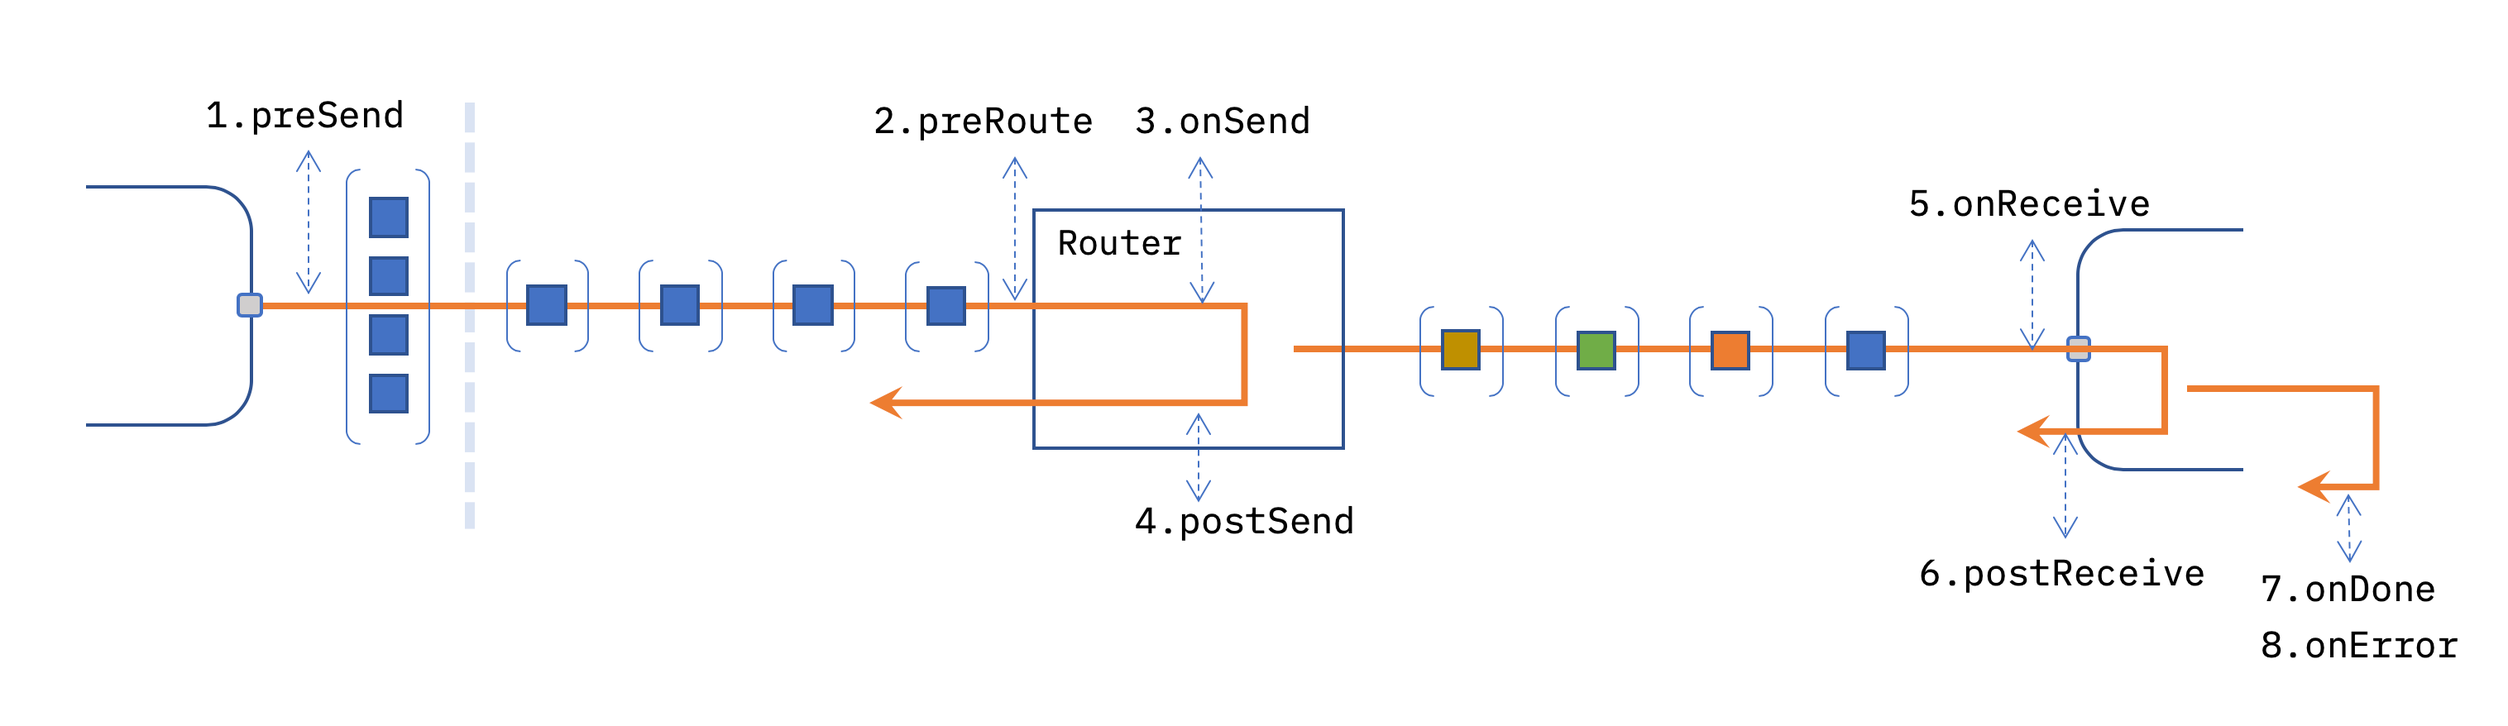
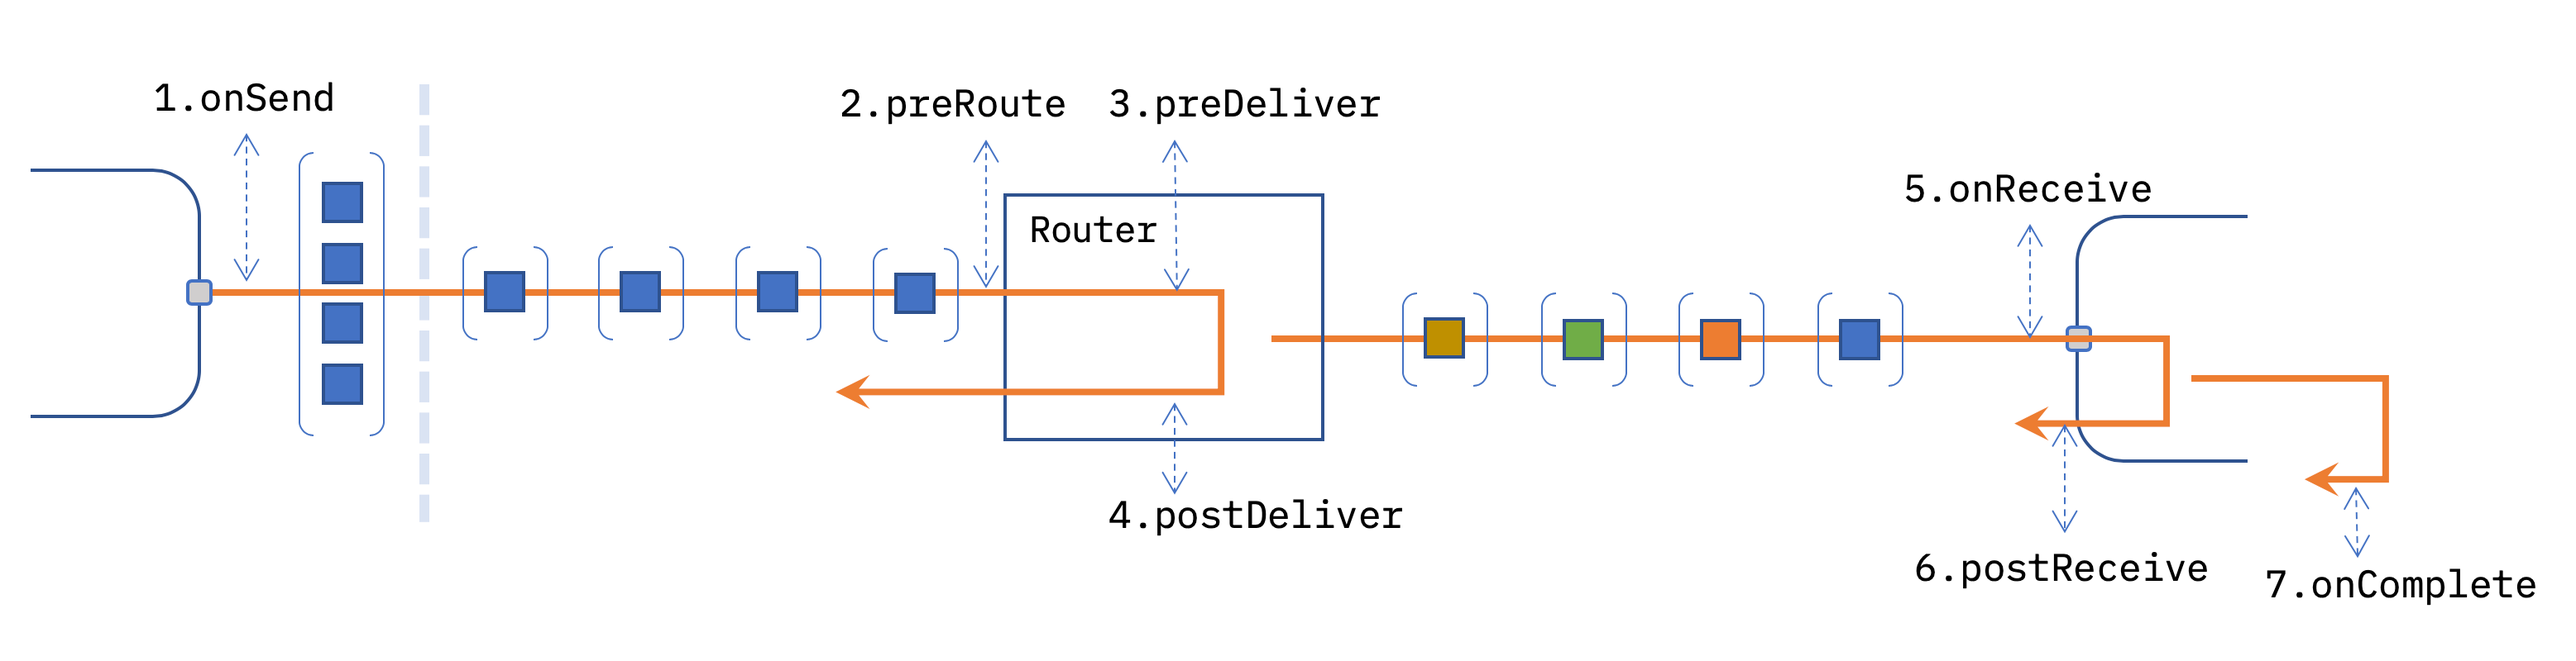
Update routing hook names

diff --git a/designs/pluggable-message-routing/README.md b/designs/pluggable-message-routing/README.md
@@ -99,31 +99,30 @@ refined as the design progresses. The orange lines show the span of synchronous 
 
 ![](message-router-events.png)
 
-1. `preSend` - passed an array of `SendEvent` objects. The messages inside these objects
+![](message-router-events.png)
+
+1. `onSend` - passed an array of `SendEvent` objects. The messages inside these objects
    are exactly what the node has passed to `node.send` - meaning there could be duplicate
    references to the same message object.
 
-2. `preRoute` - called once for each SendEvent object in turn
+2. `preRoute` - passed a `SendEvent`
 
-3. `onSend` - the local router has identified the node it is going to send to. At
-   this point, the message has been cloned if needed.
+3. `preDeliver` - passed a `SendEvent`. The local router has identified
+   the node it is going to send to. At this point, the message has been cloned if needed.
 
-4. `postSend` - the message has been dispatched to be delivered asynchronously
-(unless the sync delivery flag is set, in which case it would be continue as synchronous delivery)
+4. `postDeliver` - passed a `SendEvent`. The message has been dispatched
+    to be delivered asynchronously (unless the sync delivery flag is set, in
+    which case it would be continue as synchronous delivery)
 
-5. `onReceive` - a node is about to receive a message
+5. `onReceive` - passed a `ReceiveEvent` when a node is about to receive a message
 
-6. `postReceive` - the message has been passed to the node's `input` handler
+6. `postReceive` - passed a `ReceiveEvent` when the message has been
+    given to the node's `input` handler(s)
 
-7. `onDone`, `onError` - the node has completed with a message or logged an error
+7. `onComplete` - passed a `CompleteEvent` when the node has completed with a message or logged an error
 
 
-*The exact function signature for each of these hooks needs to be designed.*
-
-They operate on `SendEvent` objects. Each objects contains the message and metadata
-needed through the process.
-
-They start out looking like:
+##### `SendEvent` object
 
 ```json
 {
@@ -140,6 +139,30 @@ They start out looking like:
     "cloneMessage": "true|false"
 }
 ```
+##### `ReceiveEvent` object
+
+```json
+{
+    "msg": "<message object>",
+    "destination": {
+        "id": "<node-id>",
+        "node": "<node-object>",
+    }
+}
+```
+
+##### `CompleteEvent` object
+
+```json
+{
+    "msg": "<message object>",
+    "node": {
+        "id": "<node-id>",
+        "node": "<node-object>"
+    },
+    "error": "<error passed to done, otherwise, undefined>"
+}
+```
 
 ##### Scenario: custom cloning behaviour
 
@@ -150,7 +173,7 @@ how many messages it is asked to send in a single go.
 Rather than do the cloning, the node will set the `cloneMessage` property to indicated
 whether cloning should occur or not.
 
-The actual cloning would happen between the `preRoute` and `onSend` steps.
+The actual cloning would happen between the `preRoute` and `preDeliver` steps.
 
 This would allow a `preRoute` handler to do its own cloning behaviour and then set
 `cloneMessage` to `false` so that no further cloning would happen for that message.
@@ -176,7 +199,7 @@ and that no further local processes was needed.
 
 A breakpoint could be triggered when a node sends a message or receives one.
 
-To break on node send, it would either register a handler on the `preSend` step
+To break on node send, it would either register a handler on the `onSend` step
 (if it was necessary to break before *any* of the messages sent in that one call
 are processed) or `preRoute` if it works on a single message. That's a question
 for the Flow Debugger design and doesn't need addressing now. However, the options
@@ -201,7 +224,7 @@ The flow testing design introduces the ability to:
 
 That maps to the steps:
  - `onReceive` - verify message passed to a node
- - `preSend` - verify the message(s) sent by a node
+ - `onSend` - verify the message(s) sent by a node
  - `preRoute` - pass the message to a Test Stub node instead of the real node
 
 
@@ -224,7 +247,7 @@ gives a sense of the type of thing that will be possible.
 ```javascript
 {
     "router": {
-        "preSend": [
+        "onSend": [
             function(...) {  }
         ],
         "preReceive": [
@@ -240,9 +263,9 @@ gives a sense of the type of thing that will be possible.
  - `RED.hooks.add('<name>', function(...) { })`
  - `RED.hooks.remove('<name>')`
 
-The `<name>` will be the name of the step to register the hook on - `preSend`, etc.
+The `<name>` will be the name of the step to register the hook on - `onSend`, etc.
 
-It can optionally be suffixed with a label for the hook -  `preSend.flow-debugger`.
+It can optionally be suffixed with a label for the hook -  `onSend.flow-debugger`.
 That label can then be used with `RED.hooks.remove` to remove the handler later on.
 
 To remove *all* hooks with a given label, `*.flow-debugger` can be used.
@@ -274,6 +297,19 @@ If the handler encounters an error that should be logged it must either:
 If a function is defined as the two-argument version (accepting the callback function),
 it *must* use that callback - any value it returns will be ignored.
 
+
+###### Hooks vs Events
+
+The runtime API already provides `RED.events` where handlers can be registered
+for certain runtime events. At a glance, that sounds very similar to the new `RED.hooks`
+api. So it is reasonable to ask what the difference is. Here is how we distinguish
+them:
+
+ - **Events** - are *notifications* that something has happened. The event handler
+   cannot have any direct influence on the event.
+ - **Hooks** - are handlers that are inserted into the code path when something
+   happens. The hooks can modify the data being passed through and can halt the
+   onward processing
 
 
 ## Reference
